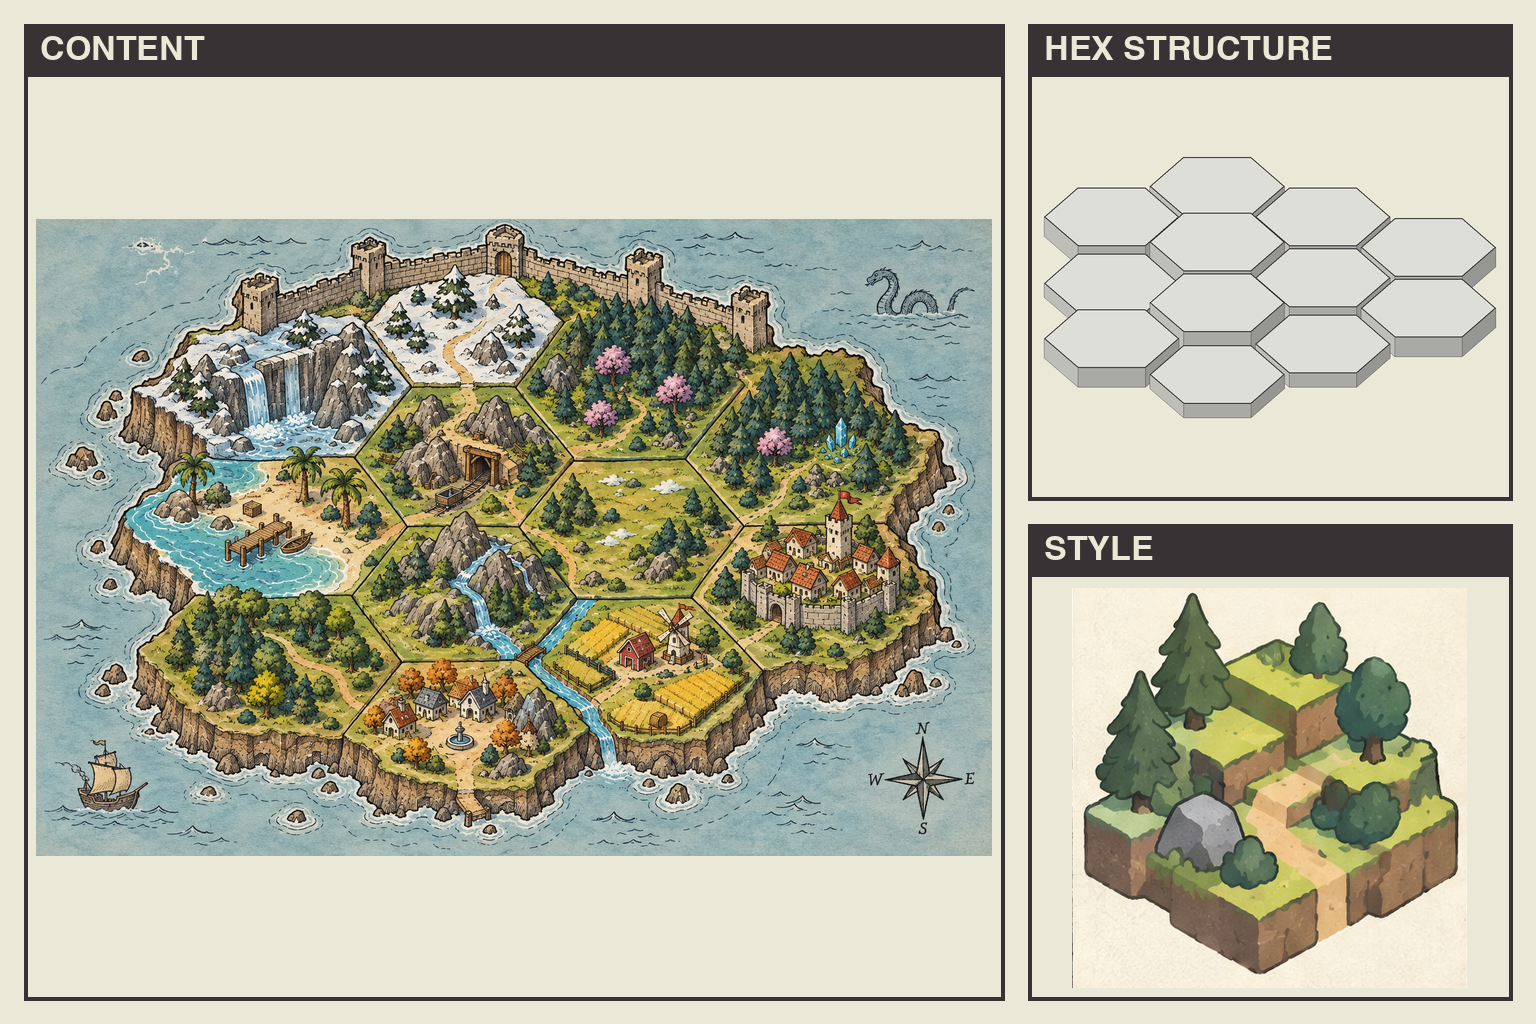
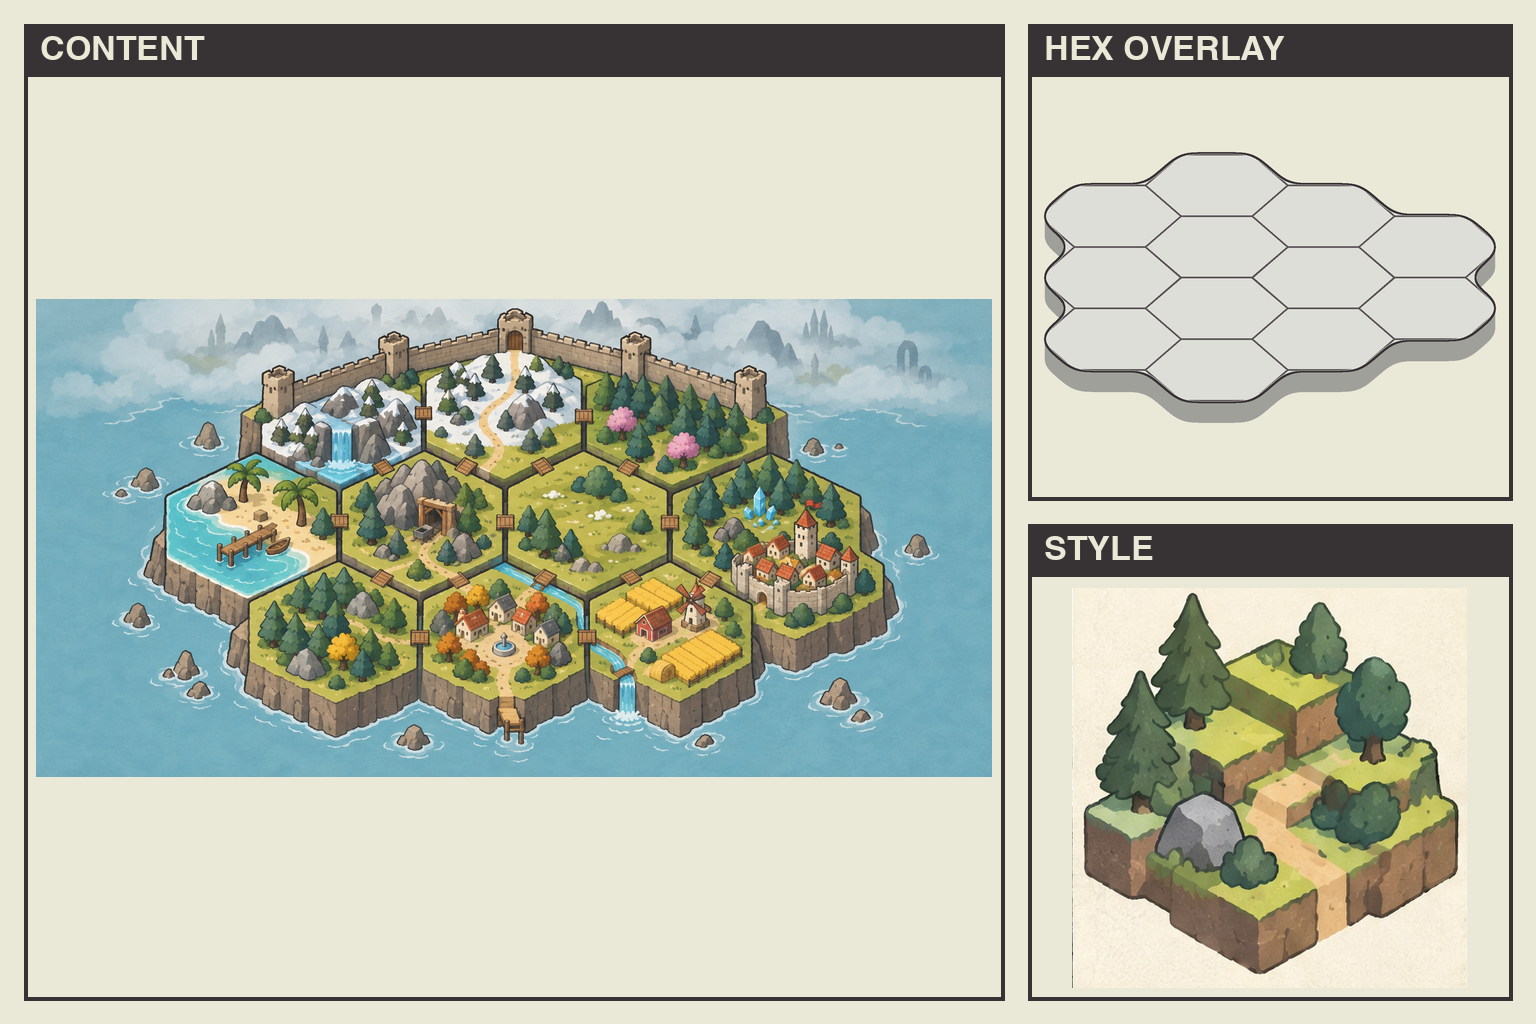
Art: hex world map third pass: one blended landmass with the hexagons as a thin overlay, no bridges (overlay guide, board, prompt)

diff --git a/tools/art/hex_overlay_guide.py b/tools/art/hex_overlay_guide.py
@@ -1,0 +1,52 @@
+"""Grey block-out for the hex world map, overlay version (Brandon, 2026-11-01: "the map isnt strictly hexagon
+shaped little islands, but we're putting that shape over each section").
+
+One continuous island in the shape of the twelve tiles (softened at the coast), one raised slab with cliffs only
+at the outer coast, and the hex grid drawn on top as thin lines. Same layout and camera as hex_world_guide.py.
+Run: ~/.lodestone/venv/bin/python tools/art/hex_overlay_guide.py [out.png]
+"""
+import sys
+
+from PIL import Image, ImageChops, ImageDraw, ImageFilter
+
+sys.path.insert(0, "tools/art")
+import hex_world_guide as g  # noqa: E402
+
+OUT = sys.argv[1] if len(sys.argv) > 1 else "art/templates/world/hex_overlay_guide.png"
+SLAB = 60  # px of cliff at the coast
+
+
+def main():
+    pts = {k: g.centre(c, r) for k, (c, r, _) in g.HEXES.items()}
+    xs = [p[0] for p in pts.values()]
+    ys = [p[1] for p in pts.values()]
+    ox = g.W / 2 - (min(xs) + max(xs)) / 2
+    oy = g.H / 2 - (min(ys) + max(ys)) / 2 * g.SQ + 40
+    rings = {k: [(ox + x, oy + y * g.SQ) for x, y in g.corners(cx, cy, g.R)] for k, (cx, cy) in pts.items()}
+    # island mask: the union of the hexes, softened so the coast is natural, not a hard hex edge
+    mask = Image.new("L", (g.W, g.H), 0)
+    md = ImageDraw.Draw(mask)
+    for ring in rings.values():
+        md.polygon(ring, fill=255)
+    mask = mask.filter(ImageFilter.GaussianBlur(26)).point(lambda v: 255 if v > 110 else 0)
+    img = Image.new("RGB", (g.W, g.H), g.CREAM)
+    cliff = Image.new("RGB", (g.W, g.H), (160, 160, 155))
+    top = Image.new("RGB", (g.W, g.H), (222, 222, 216))
+    img.paste(cliff, (0, 0), mask.transform(mask.size, Image.AFFINE, (1, 0, 0, 0, 1, -SLAB)))
+    for dy in range(SLAB, 0, -4):  # fill the cliff band between the shifted and the top mask
+        img.paste(cliff, (0, 0), mask.transform(mask.size, Image.AFFINE, (1, 0, 0, 0, 1, -dy)))
+    img.paste(top, (0, 0), mask)
+    edge = mask.filter(ImageFilter.FIND_EDGES).filter(ImageFilter.MaxFilter(5))
+    img.paste((55, 51, 53), (0, 0), edge)
+    lines = Image.new("L", (g.W, g.H), 0)  # the overlay: thin grid lines, clipped to the land
+    ld = ImageDraw.Draw(lines)
+    for ring in rings.values():
+        ld.line(ring + [ring[0]], fill=255, width=5)
+    inner = mask.filter(ImageFilter.MinFilter(9))
+    img.paste((90, 84, 86), (0, 0), ImageChops.darker(lines, inner))
+    img.save(OUT)
+    print(OUT, img.size)
+
+
+if __name__ == "__main__":
+    main()

diff --git a/tools/art/world_board.py b/tools/art/world_board.py
@@ -4,10 +4,10 @@
     ~/.lodestone/venv/bin/python tools/art/world_board.py   # writes art/templates/world/world_board.png
 
 1536 x 1024 (3:2), cream paper, built only from pictures we already have, nothing painted:
-  CONTENT        Brandon's closest Picsart try (art/templates/world/hex_closest_try.png), big on the left
-  HEX STRUCTURE  the grey hex block-out (art/templates/world/hex_world_guide.png, from hex_world_guide.py)
+  CONTENT        Brandon's latest Picsart try (art/templates/world/hex_closest_try_2.png), big on the left
+  HEX OVERLAY    one continuous island with the hex grid as thin lines (hex_overlay_guide.png, from hex_overlay_guide.py)
   STYLE          the approved look (docs/art/references/style-flat-forest.png)
-The prompt (art/prompts/hand-world-hex-mockup-v2.txt) refers to the panels by these labels.
+The prompt (art/prompts/hand-world-hex-mockup-v3.txt) refers to the panels by these labels.
 Brandon (2026-11-01): "append all references images into one image with labels. That way I just send 1 image and 1 prompt".
 """
 from PIL import Image, ImageDraw, ImageFont
@@ -18,8 +18,8 @@ FONT = "/System/Library/Fonts/Helvetica.ttc"
 W, H, M, LAB = 1536, 1024, 24, 52
 OUT = "art/templates/world/world_board.png"
 PANELS = [  # label, source, box (x, y, w, h) including the label strip
-    ("CONTENT", "art/templates/world/hex_closest_try.png", (M, M, 980, H - 2 * M)),
-    ("HEX STRUCTURE", "art/templates/world/hex_world_guide.png", (980 + 2 * M, M, W - 980 - 3 * M, (H - 3 * M) // 2)),
+    ("CONTENT", "art/templates/world/hex_closest_try_2.png", (M, M, 980, H - 2 * M)),
+    ("HEX OVERLAY", "art/templates/world/hex_overlay_guide.png", (980 + 2 * M, M, W - 980 - 3 * M, (H - 3 * M) // 2)),
     ("STYLE", "docs/art/references/style-flat-forest.png", (980 + 2 * M, M * 2 + (H - 3 * M) // 2, W - 980 - 3 * M, (H - 3 * M) // 2)),
 ]
 
